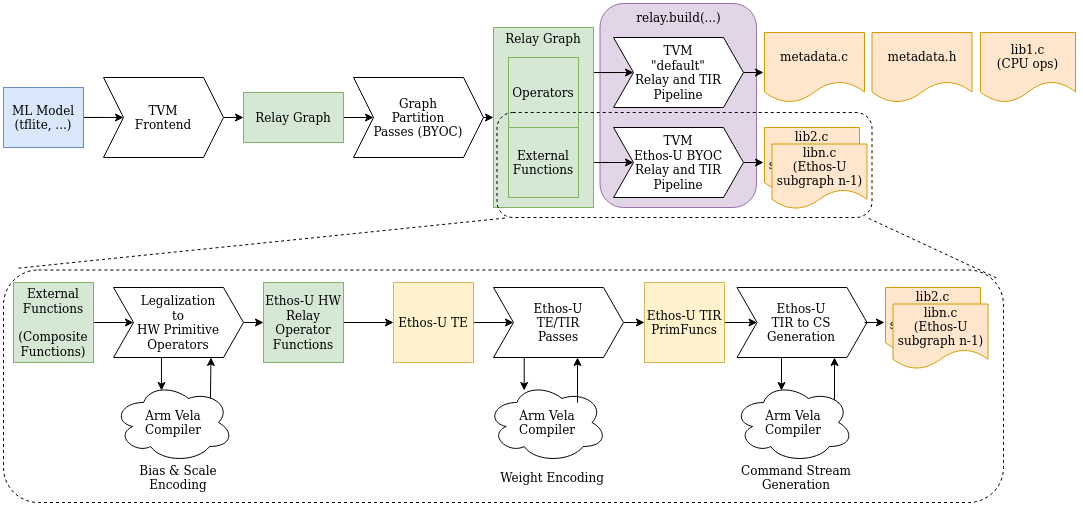
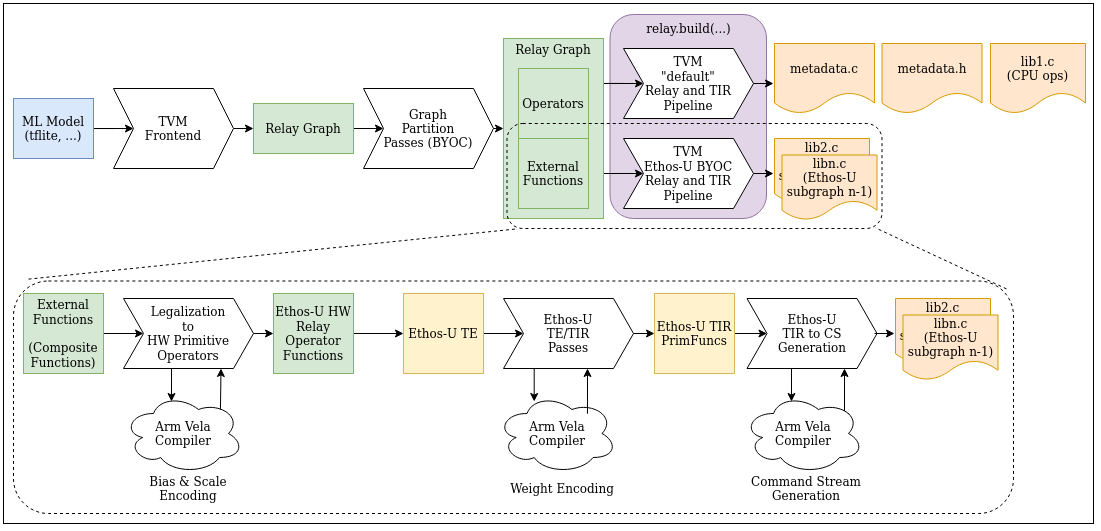
Arm Ethos-U Integration
*fixing the path to assets with the PR number
*adding a white bounding box to compiler_arch
 to render in a black github interface for
 better viewing experience

diff --git a/rfcs/0011_Arm_Ethos-U_Integration.md b/rfcs/0011_Arm_Ethos-U_Integration.md
@@ -11,7 +11,7 @@ Arm® Ethos™-U is a series of NPUs that will enable low-cost and highly effici
 
 ### Ethos™-U55
 
-![](./assets/000x/ethosu_hw.png)
+![](./assets/0011/ethosu_hw.png)
 
 Ethos™-U55 is a NPU that is designed to uplift ML performance by working as an offload target for micro-controllers. It can accelerate quantized ML operators such as Convolution2D, Depthwise Convolution, Pooling and Elementwise Operators.  For convolution-type operators, Ethos-U55 supports hardware enabled loseless de-compression of weights to increase inference performance and reduce power.
 
@@ -37,7 +37,7 @@ Please take a look at our provided example in the last PR (once its published).
 
 ## Design Architecture Overview
 
-![](./assets/000x/ethosu_compiler_arch.png)
+![](./assets/0011/ethosu_compiler_arch.png)
 
 We rely on the graph partitioning infrastructure in Relay (commonly known as BYOC) to integrate the Relay and TIR pass pipeline to generate c-source artifacts that could be used in an embedded deployment environment. Therefore, the generated c-sources are expected to be bundled with AOT executor in the Model Library Format (MLF) tarball. The embedded user can easily use MLF.tar as he/she would use it with the AOT executor in a typical embedded environment.
 
